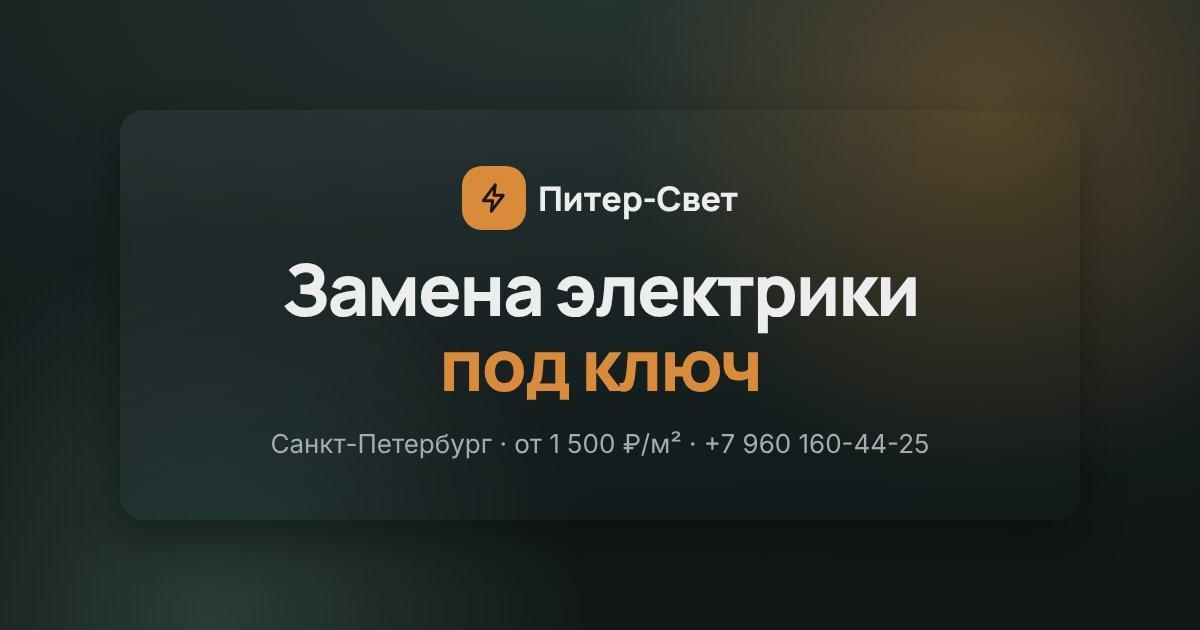
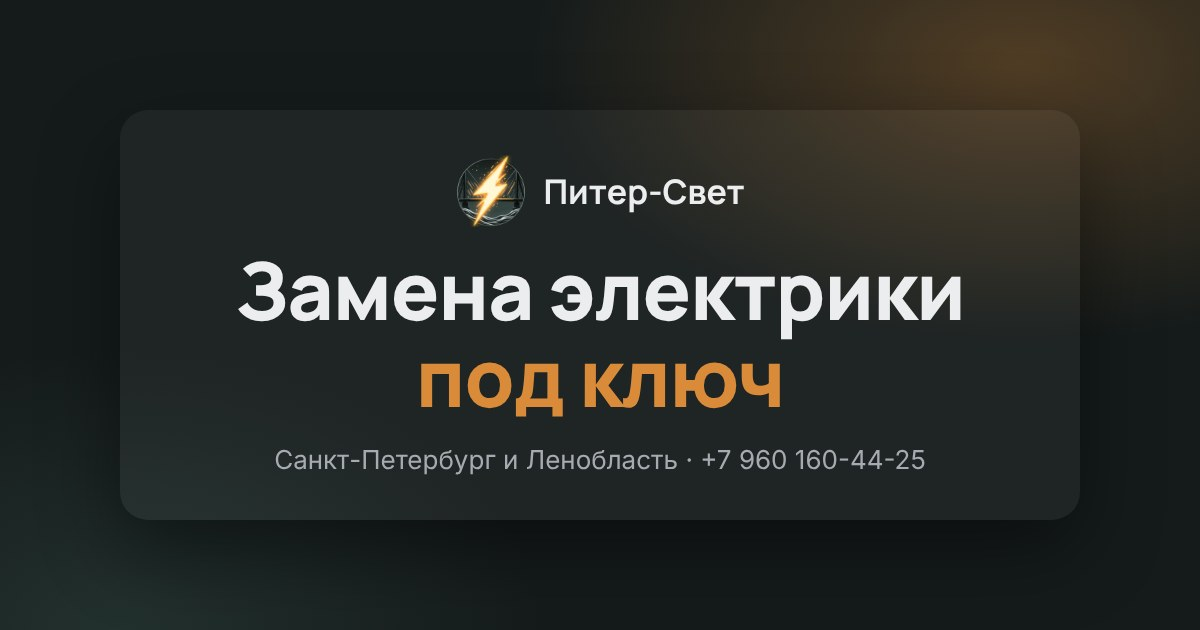
Цена только в вопросе на главной: убрана из описаний, превью-картинки, разметки и калькулятора; инициалы автора по центру
Claude-Session: https://claude.ai/code/session_0163gCrS1RV5k5jFFJp4phaH

Changed region(s): [[0.185, 0.3921, 0.8017, 0.6635], [0.2158, 0.6937, 0.7708, 0.754], [0.37, 0.2413, 0.6167, 0.3619]]

diff --git a/kalkulyator/index.html b/kalkulyator/index.html
@@ -4,7 +4,7 @@
 <meta charset="utf-8">
 <meta name="viewport" content="width=device-width, initial-scale=1">
 <title>Калькулятор стоимости электромонтажа — Питер-Свет</title>
-<meta name="description" content="Калькулятор стоимости электромонтажа в СПб: замена электрики от 1500 ₽ за м², таблица цен для квартиры, дома и офиса, расчёт за минуту.">
+<meta name="description" content="Калькулятор стоимости электромонтажа в СПб: ориентировочная цена замены электрики в квартире, доме и офисе за минуту. Точная смета — после выезда мастера.">
 <meta name="article:modified" content="2026-11-16">
 <link rel="canonical" href="https://xn----dtbhcl5bjjfg.xn--p1ai/kalkulyator/">
 <meta name="theme-color" content="#161C1C">
@@ -12,13 +12,13 @@
 <meta property="og:locale" content="ru_RU">
 <meta property="og:site_name" content="Питер-Свет">
 <meta property="og:title" content="Калькулятор стоимости электромонтажа">
-<meta property="og:description" content="Калькулятор стоимости электромонтажа в СПб: замена электрики от 1500 ₽ за м², таблица цен для квартиры, дома и офиса, расчёт за минуту.">
+<meta property="og:description" content="Калькулятор стоимости электромонтажа в СПб: ориентировочная цена замены электрики в квартире, доме и офисе за минуту. Точная смета — после выезда мастера.">
 <meta property="og:url" content="https://xn----dtbhcl5bjjfg.xn--p1ai/kalkulyator/">
-<meta property="og:image" content="https://xn----dtbhcl5bjjfg.xn--p1ai/assets/img/og.jpg">
+<meta property="og:image" content="https://xn----dtbhcl5bjjfg.xn--p1ai/assets/img/og.jpg?v=2">
 <link rel="icon" href="/assets/img/favicon-32.png" type="image/png" sizes="32x32">
 <link rel="icon" href="/assets/img/logo-192.png" type="image/png" sizes="192x192">
 <link rel="apple-touch-icon" href="/assets/img/apple-touch-icon.png">
-<link rel="stylesheet" href="/assets/css/style.css?v=5445adb8">
+<link rel="stylesheet" href="/assets/css/style.css?v=f786abf7">
 <script type="application/ld+json">
 {
  "@context": "https://schema.org",
@@ -54,56 +54,6 @@
     {
      "@type": "AdministrativeArea",
      "name": "Ленинградская область"
-    }
-   ],
-   "offers": [
-    {
-     "@type": "Offer",
-     "name": "Квартира",
-     "priceCurrency": "RUB",
-     "priceSpecification": {
-      "@type": "UnitPriceSpecification",
-      "price": 1500,
-      "priceCurrency": "RUB",
-      "unitText": "м²",
-      "referenceQuantity": {
-       "@type": "QuantitativeValue",
-       "value": 1,
-       "unitCode": "MTK"
-      }
-     }
-    },
-    {
-     "@type": "Offer",
-     "name": "Частный дом",
-     "priceCurrency": "RUB",
-     "priceSpecification": {
-      "@type": "UnitPriceSpecification",
-      "price": 1800,
-      "priceCurrency": "RUB",
-      "unitText": "м²",
-      "referenceQuantity": {
-       "@type": "QuantitativeValue",
-       "value": 1,
-       "unitCode": "MTK"
-      }
-     }
-    },
-    {
-     "@type": "Offer",
-     "name": "Офис, коммерция",
-     "priceCurrency": "RUB",
-     "priceSpecification": {
-      "@type": "UnitPriceSpecification",
-      "price": 1650,
-      "priceCurrency": "RUB",
-      "unitText": "м²",
-      "referenceQuantity": {
-       "@type": "QuantitativeValue",
-       "value": 1,
-       "unitCode": "MTK"
-      }
-     }
     }
    ]
   },
@@ -184,20 +134,7 @@
         <span class="article__section">Калькулятор</span>
         <h1>Калькулятор стоимости электромонтажа</h1>
         <p class="article__meta">Обновлено <time datetime="2026-11-16">16 ноября 2026</time></p>
-        <p><b>Замена электрики в квартире стоит от 1 500 ₽ за м² площади</b> за черновой монтаж. С установкой розеток, выключателей и светильников — от 1 950 ₽ за м². Для частного дома и офиса цена выше из-за длины трасс и нагрузки. Ниже — таблица цен и калькулятор. Точную сумму мастер называет в смете после выезда.</p>
-        <div class="ig">
-          <p class="ig__title">Цена работ за м² площади</p>
-          <div class="ig-table">
-            <table>
-              <thead><tr><th>Объект</th><th>Черновой монтаж</th><th>Черновой + чистовой</th></tr></thead>
-              <tbody>
-              <tr><td data-label="Объект">Квартира</td><td data-label="Черновой монтаж">от 1 500 ₽/м²</td><td data-label="Черновой + чистовой">от 1 950 ₽/м²</td></tr>
-              <tr><td data-label="Объект">Частный дом</td><td data-label="Черновой монтаж">от 1 800 ₽/м²</td><td data-label="Черновой + чистовой">от 2 340 ₽/м²</td></tr>
-              <tr><td data-label="Объект">Офис, коммерция</td><td data-label="Черновой монтаж">от 1 650 ₽/м²</td><td data-label="Черновой + чистовой">от 2 145 ₽/м²</td></tr>
-              </tbody>
-            </table>
-          </div>
-        </div>
+        <p><b>Калькулятор стоимости электромонтажа</b> показывает ориентировочную цену работ за минуту: выберите тип объекта, площадь и объём работ. Для частного дома и офиса цена выше, чем для квартиры, из-за длины трасс и нагрузки. Точную сумму мастер называет в смете после выезда.</p>
         <div class="ig">
           <p class="ig__title">Примеры для квартиры</p>
           <div class="ig-table">

diff --git a/index.html b/index.html
@@ -4,7 +4,7 @@
 <meta charset="utf-8">
 <meta name="viewport" content="width=device-width, initial-scale=1">
 <title>Замена проводки и электрика под ключ в квартире — СПб | Питер-Свет</title>
-<meta name="description" content="Замена проводки и электрика под ключ в СПб и Ленобласти: проект, щит, кабель, розетки. От 1 500 ₽/м², бригада 3–4 мастера, гарантия от 3 лет.">
+<meta name="description" content="Замена проводки и электрика под ключ в СПб и Ленобласти: проект, щит, кабель, розетки. Бригада 3–4 мастера, гарантия от 3 лет.">
 <link rel="canonical" href="https://xn----dtbhcl5bjjfg.xn--p1ai/">
 <meta name="yandex-verification" content="56ffb2c34450c6da">
 <meta name="theme-color" content="#161C1C">
@@ -12,15 +12,15 @@
 <meta property="og:locale" content="ru_RU">
 <meta property="og:site_name" content="Питер-Свет">
 <meta property="og:title" content="Замена электрики под ключ в Санкт-Петербурге — Питер-Свет">
-<meta property="og:description" content="Квартиры, дома, офисы. От проекта и щита до последней розетки. Цена от 1 500 ₽/м².">
+<meta property="og:description" content="Квартиры, дома, офисы. От проекта и щита до последней розетки. Бригада 3–4 мастера, гарантия от 3 лет.">
 <meta property="og:url" content="https://xn----dtbhcl5bjjfg.xn--p1ai/">
-<meta property="og:image" content="https://xn----dtbhcl5bjjfg.xn--p1ai/assets/img/og.jpg">
+<meta property="og:image" content="https://xn----dtbhcl5bjjfg.xn--p1ai/assets/img/og.jpg?v=2">
 <link rel="icon" href="/assets/img/favicon-32.png" type="image/png" sizes="32x32">
 <link rel="icon" href="/assets/img/logo-192.png" type="image/png" sizes="192x192">
 <link rel="apple-touch-icon" href="/assets/img/apple-touch-icon.png">
 <link rel="preload" href="/assets/fonts/manrope-cyrillic-800-normal.woff2" as="font" type="font/woff2" crossorigin>
 <link rel="preload" href="/assets/fonts/inter-cyrillic-400-normal.woff2" as="font" type="font/woff2" crossorigin>
-<link rel="stylesheet" href="/assets/css/style.css?v=5445adb8">
+<link rel="stylesheet" href="/assets/css/style.css?v=f786abf7">
 <script type="application/ld+json">
 {
   "@context": "https://schema.org",
@@ -41,19 +41,12 @@
       "name": "Ленинградская область"
     }
   ],
-  "priceRange": "от 1500 ₽/м²",
   "makesOffer": [
     {
       "@type": "Offer",
       "itemOffered": {
         "@type": "Service",
         "name": "Замена электропроводки в квартире"
-      },
-      "priceSpecification": {
-        "@type": "UnitPriceSpecification",
-        "price": 1500,
-        "priceCurrency": "RUB",
-        "unitText": "м²"
       }
     },
     {

diff --git a/blog/sborka-elektroshchita-v-kvartire/index.html b/blog/sborka-elektroshchita-v-kvartire/index.html
@@ -16,11 +16,11 @@
 <meta property="og:title" content="Сборка электрощита в квартире: что внутри и сколько автоматов нужно">
 <meta property="og:description" content="Из чего состоит квартирный электрощит, сколько автоматов и УЗО нужно для квартиры, зачем реле напряжения и маркировка линий. Сборка щита при замене проводки в СПб.">
 <meta property="og:url" content="https://xn----dtbhcl5bjjfg.xn--p1ai/blog/sborka-elektroshchita-v-kvartire/">
-<meta property="og:image" content="https://xn----dtbhcl5bjjfg.xn--p1ai/assets/img/og.jpg">
+<meta property="og:image" content="https://xn----dtbhcl5bjjfg.xn--p1ai/assets/img/og.jpg?v=2">
 <link rel="icon" href="/assets/img/favicon-32.png" type="image/png" sizes="32x32">
 <link rel="icon" href="/assets/img/logo-192.png" type="image/png" sizes="192x192">
 <link rel="apple-touch-icon" href="/assets/img/apple-touch-icon.png">
-<link rel="stylesheet" href="/assets/css/style.css?v=5445adb8">
+<link rel="stylesheet" href="/assets/css/style.css?v=f786abf7">
 <script type="application/ld+json">
 {
   "@context": "https://schema.org",

diff --git a/blog/zamena-provodki-v-hrushchevke/index.html b/blog/zamena-provodki-v-hrushchevke/index.html
@@ -16,11 +16,11 @@
 <meta property="og:title" content="Замена проводки в хрущевке: что важно знать до начала работ">
 <meta property="og:description" content="Почему в хрущевке проводку лучше менять целиком, как быть с заземлением и несущими стенами, сколько линий нужно и сколько стоит замена в СПб.">
 <meta property="og:url" content="https://xn----dtbhcl5bjjfg.xn--p1ai/blog/zamena-provodki-v-hrushchevke/">
-<meta property="og:image" content="https://xn----dtbhcl5bjjfg.xn--p1ai/assets/img/og.jpg">
+<meta property="og:image" content="https://xn----dtbhcl5bjjfg.xn--p1ai/assets/img/og.jpg?v=2">
 <link rel="icon" href="/assets/img/favicon-32.png" type="image/png" sizes="32x32">
 <link rel="icon" href="/assets/img/logo-192.png" type="image/png" sizes="192x192">
 <link rel="apple-touch-icon" href="/assets/img/apple-touch-icon.png">
-<link rel="stylesheet" href="/assets/css/style.css?v=5445adb8">
+<link rel="stylesheet" href="/assets/css/style.css?v=f786abf7">
 <script type="application/ld+json">
 {
   "@context": "https://schema.org",

diff --git a/blog/alyuminievaya-provodka-na-mednuyu/index.html b/blog/alyuminievaya-provodka-na-mednuyu/index.html
@@ -16,11 +16,11 @@
 <meta property="og:title" content="Замена алюминиевой проводки на медную в квартире">
 <meta property="og:description" content="Чем опасна старая алюминиевая проводка, можно ли соединять алюминий с медью, менять частично или полностью и как проходит замена в квартире.">
 <meta property="og:url" content="https://xn----dtbhcl5bjjfg.xn--p1ai/blog/alyuminievaya-provodka-na-mednuyu/">
-<meta property="og:image" content="https://xn----dtbhcl5bjjfg.xn--p1ai/assets/img/og.jpg">
+<meta property="og:image" content="https://xn----dtbhcl5bjjfg.xn--p1ai/assets/img/og.jpg?v=2">
 <link rel="icon" href="/assets/img/favicon-32.png" type="image/png" sizes="32x32">
 <link rel="icon" href="/assets/img/logo-192.png" type="image/png" sizes="192x192">
 <link rel="apple-touch-icon" href="/assets/img/apple-touch-icon.png">
-<link rel="stylesheet" href="/assets/css/style.css?v=5445adb8">
+<link rel="stylesheet" href="/assets/css/style.css?v=f786abf7">
 <script type="application/ld+json">
 {
   "@context": "https://schema.org",

diff --git a/blog/stoimost-zameny-provodki-spb/index.html b/blog/stoimost-zameny-provodki-spb/index.html
@@ -16,11 +16,11 @@
 <meta property="og:title" content="Сколько стоит замена проводки в квартире в Санкт-Петербурге">
 <meta property="og:description" content="Сколько стоит замена проводки в квартире в СПб: как мы считаем смету, что входит в полную замену, 5 факторов цены и как не переплатить.">
 <meta property="og:url" content="https://xn----dtbhcl5bjjfg.xn--p1ai/blog/stoimost-zameny-provodki-spb/">
-<meta property="og:image" content="https://xn----dtbhcl5bjjfg.xn--p1ai/assets/img/og.jpg">
+<meta property="og:image" content="https://xn----dtbhcl5bjjfg.xn--p1ai/assets/img/og.jpg?v=2">
 <link rel="icon" href="/assets/img/favicon-32.png" type="image/png" sizes="32x32">
 <link rel="icon" href="/assets/img/logo-192.png" type="image/png" sizes="192x192">
 <link rel="apple-touch-icon" href="/assets/img/apple-touch-icon.png">
-<link rel="stylesheet" href="/assets/css/style.css?v=5445adb8">
+<link rel="stylesheet" href="/assets/css/style.css?v=f786abf7">
 <script type="application/ld+json">
 {
   "@context": "https://schema.org",

diff --git a/uslugi/zamena-provodki-v-hrushchevke-spb/index.html b/uslugi/zamena-provodki-v-hrushchevke-spb/index.html
@@ -14,11 +14,11 @@
 <meta property="og:title" content="Замена проводки в хрущевке в СПб">
 <meta property="og:description" content="Замена проводки в хрущевке в Санкт-Петербурге: алюминий на медь, трёхжильный кабель, УЗО, трассы без горизонтальных штроб в панели. Гарантия от 3 лет.">
 <meta property="og:url" content="https://xn----dtbhcl5bjjfg.xn--p1ai/uslugi/zamena-provodki-v-hrushchevke-spb/">
-<meta property="og:image" content="https://xn----dtbhcl5bjjfg.xn--p1ai/assets/img/og.jpg">
+<meta property="og:image" content="https://xn----dtbhcl5bjjfg.xn--p1ai/assets/img/og.jpg?v=2">
 <link rel="icon" href="/assets/img/favicon-32.png" type="image/png" sizes="32x32">
 <link rel="icon" href="/assets/img/logo-192.png" type="image/png" sizes="192x192">
 <link rel="apple-touch-icon" href="/assets/img/apple-touch-icon.png">
-<link rel="stylesheet" href="/assets/css/style.css?v=5445adb8">
+<link rel="stylesheet" href="/assets/css/style.css?v=f786abf7">
 <script type="application/ld+json">
 {
  "@context": "https://schema.org",

diff --git a/uslugi/elektrika-v-novostroyke-spb/index.html b/uslugi/elektrika-v-novostroyke-spb/index.html
@@ -14,11 +14,11 @@
 <meta property="og:title" content="Электрика в новостройке в СПб">
 <meta property="og:description" content="Электрика в новостройке в Санкт-Петербурге: проект под мебель и технику, разводка, щит, проверка линий до отделки. Бригада 3–4 мастера, гарантия от 3 лет.">
 <meta property="og:url" content="https://xn----dtbhcl5bjjfg.xn--p1ai/uslugi/elektrika-v-novostroyke-spb/">
-<meta property="og:image" content="https://xn----dtbhcl5bjjfg.xn--p1ai/assets/img/og.jpg">
+<meta property="og:image" content="https://xn----dtbhcl5bjjfg.xn--p1ai/assets/img/og.jpg?v=2">
 <link rel="icon" href="/assets/img/favicon-32.png" type="image/png" sizes="32x32">
 <link rel="icon" href="/assets/img/logo-192.png" type="image/png" sizes="192x192">
 <link rel="apple-touch-icon" href="/assets/img/apple-touch-icon.png">
-<link rel="stylesheet" href="/assets/css/style.css?v=5445adb8">
+<link rel="stylesheet" href="/assets/css/style.css?v=f786abf7">
 <script type="application/ld+json">
 {
  "@context": "https://schema.org",

diff --git a/uslugi/zamena-provodki-v-kvartire-spb/index.html b/uslugi/zamena-provodki-v-kvartire-spb/index.html
@@ -14,11 +14,11 @@
 <meta property="og:title" content="Замена проводки в квартире в СПб">
 <meta property="og:description" content="Замена проводки в квартире в Санкт-Петербурге: проект, демонтаж, медный кабель, новый щит, розетки и проверка. Бригада 3–4 мастера, гарантия от 3 лет.">
 <meta property="og:url" content="https://xn----dtbhcl5bjjfg.xn--p1ai/uslugi/zamena-provodki-v-kvartire-spb/">
-<meta property="og:image" content="https://xn----dtbhcl5bjjfg.xn--p1ai/assets/img/og.jpg">
+<meta property="og:image" content="https://xn----dtbhcl5bjjfg.xn--p1ai/assets/img/og.jpg?v=2">
 <link rel="icon" href="/assets/img/favicon-32.png" type="image/png" sizes="32x32">
 <link rel="icon" href="/assets/img/logo-192.png" type="image/png" sizes="192x192">
 <link rel="apple-touch-icon" href="/assets/img/apple-touch-icon.png">
-<link rel="stylesheet" href="/assets/css/style.css?v=5445adb8">
+<link rel="stylesheet" href="/assets/css/style.css?v=f786abf7">
 <script type="application/ld+json">
 {
  "@context": "https://schema.org",

diff --git a/uslugi/sborka-elektroshchita-spb/index.html b/uslugi/sborka-elektroshchita-spb/index.html
@@ -14,11 +14,11 @@
 <meta property="og:title" content="Сборка электрощита в СПб">
 <meta property="og:description" content="Сборка электрощита в Санкт-Петербурге для квартиры и частного дома, 220 и 380 В: автоматы, УЗО, дифавтоматы, маркировка линий и схема. Гарантия от 3 лет.">
 <meta property="og:url" content="https://xn----dtbhcl5bjjfg.xn--p1ai/uslugi/sborka-elektroshchita-spb/">
-<meta property="og:image" content="https://xn----dtbhcl5bjjfg.xn--p1ai/assets/img/og.jpg">
+<meta property="og:image" content="https://xn----dtbhcl5bjjfg.xn--p1ai/assets/img/og.jpg?v=2">
 <link rel="icon" href="/assets/img/favicon-32.png" type="image/png" sizes="32x32">
 <link rel="icon" href="/assets/img/logo-192.png" type="image/png" sizes="192x192">
 <link rel="apple-touch-icon" href="/assets/img/apple-touch-icon.png">
-<link rel="stylesheet" href="/assets/css/style.css?v=5445adb8">
+<link rel="stylesheet" href="/assets/css/style.css?v=f786abf7">
 <script type="application/ld+json">
 {
  "@context": "https://schema.org",

diff --git a/uslugi/elektrika-pod-klyuch-spb/index.html b/uslugi/elektrika-pod-klyuch-spb/index.html
@@ -14,11 +14,11 @@
 <meta property="og:title" content="Электрика под ключ в СПб">
 <meta property="og:description" content="Электрика под ключ в Санкт-Петербурге: проект, щит, штробление, кабель, розетки и проверка линий. Бригада 3–4 мастера, гарантия от 3 лет.">
 <meta property="og:url" content="https://xn----dtbhcl5bjjfg.xn--p1ai/uslugi/elektrika-pod-klyuch-spb/">
-<meta property="og:image" content="https://xn----dtbhcl5bjjfg.xn--p1ai/assets/img/og.jpg">
+<meta property="og:image" content="https://xn----dtbhcl5bjjfg.xn--p1ai/assets/img/og.jpg?v=2">
 <link rel="icon" href="/assets/img/favicon-32.png" type="image/png" sizes="32x32">
 <link rel="icon" href="/assets/img/logo-192.png" type="image/png" sizes="192x192">
 <link rel="apple-touch-icon" href="/assets/img/apple-touch-icon.png">
-<link rel="stylesheet" href="/assets/css/style.css?v=5445adb8">
+<link rel="stylesheet" href="/assets/css/style.css?v=f786abf7">
 <script type="application/ld+json">
 {
  "@context": "https://schema.org",

diff --git a/blog/zamena-provodki-v-kvartire/index.html b/blog/zamena-provodki-v-kvartire/index.html
@@ -16,11 +16,11 @@
 <meta property="og:title" content="Замена проводки в квартире: этапы, сроки и цена в Санкт-Петербурге">
 <meta property="og:description" content="Когда менять проводку, как идут работы и сколько стоит полная замена в Санкт-Петербурге.">
 <meta property="og:url" content="https://xn----dtbhcl5bjjfg.xn--p1ai/blog/zamena-provodki-v-kvartire/">
-<meta property="og:image" content="https://xn----dtbhcl5bjjfg.xn--p1ai/assets/img/og.jpg">
+<meta property="og:image" content="https://xn----dtbhcl5bjjfg.xn--p1ai/assets/img/og.jpg?v=2">
 <link rel="icon" href="/assets/img/favicon-32.png" type="image/png" sizes="32x32">
 <link rel="icon" href="/assets/img/logo-192.png" type="image/png" sizes="192x192">
 <link rel="apple-touch-icon" href="/assets/img/apple-touch-icon.png">
-<link rel="stylesheet" href="/assets/css/style.css?v=5445adb8">
+<link rel="stylesheet" href="/assets/css/style.css?v=f786abf7">
 <script type="application/ld+json">
 {
   "@context": "https://schema.org",
